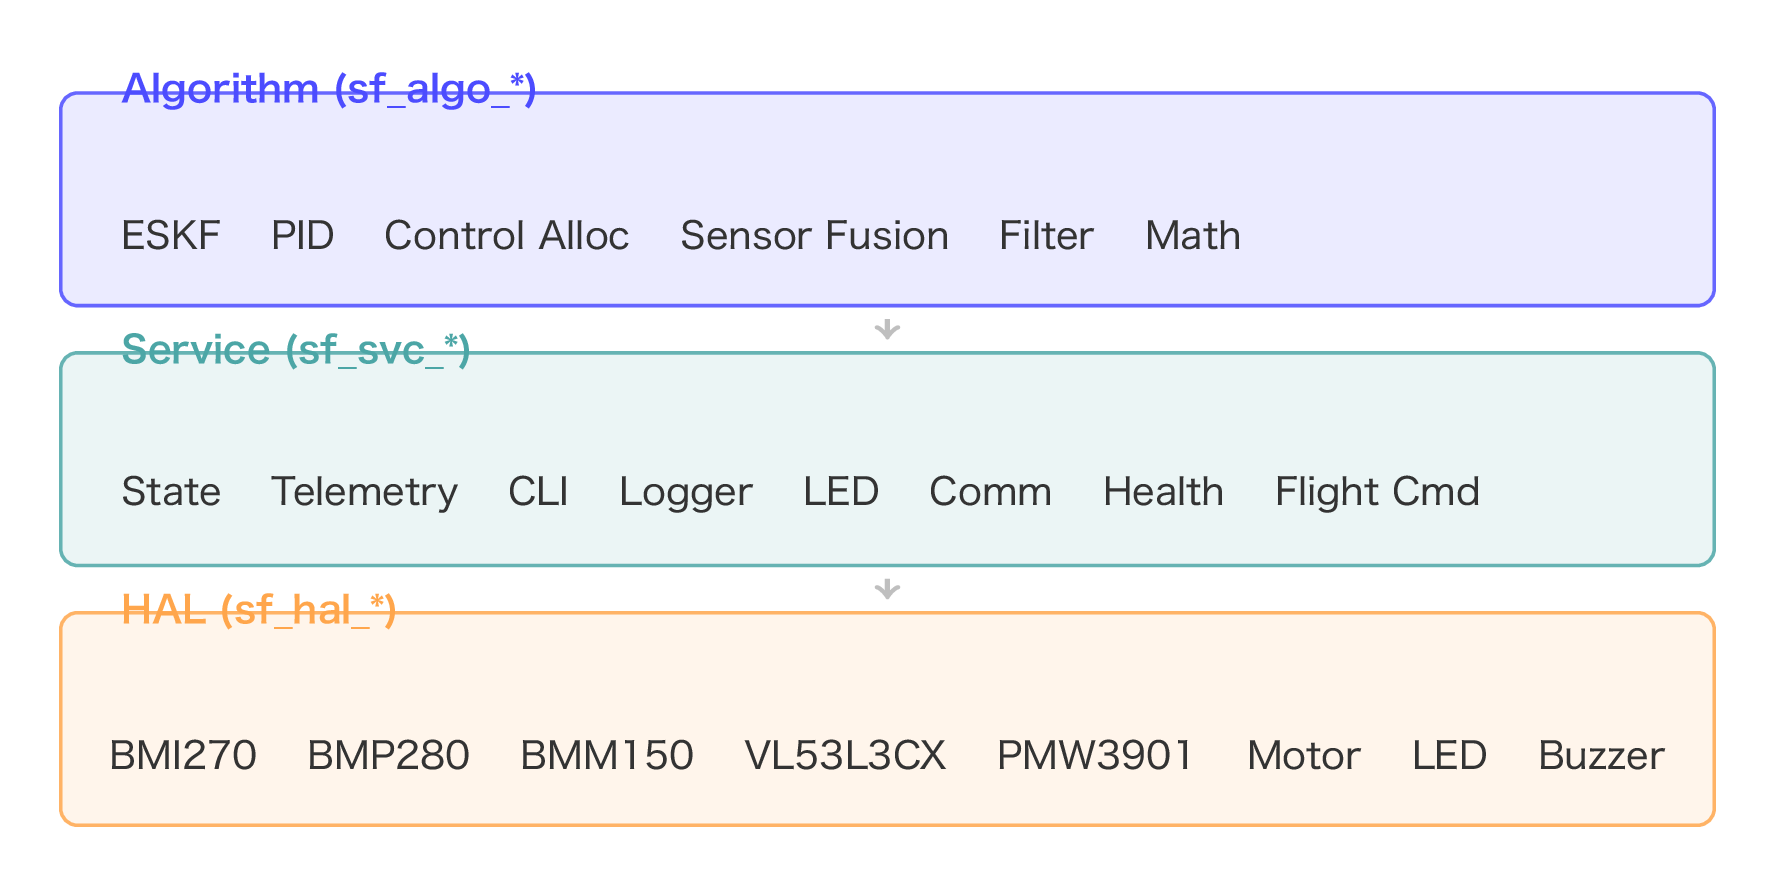
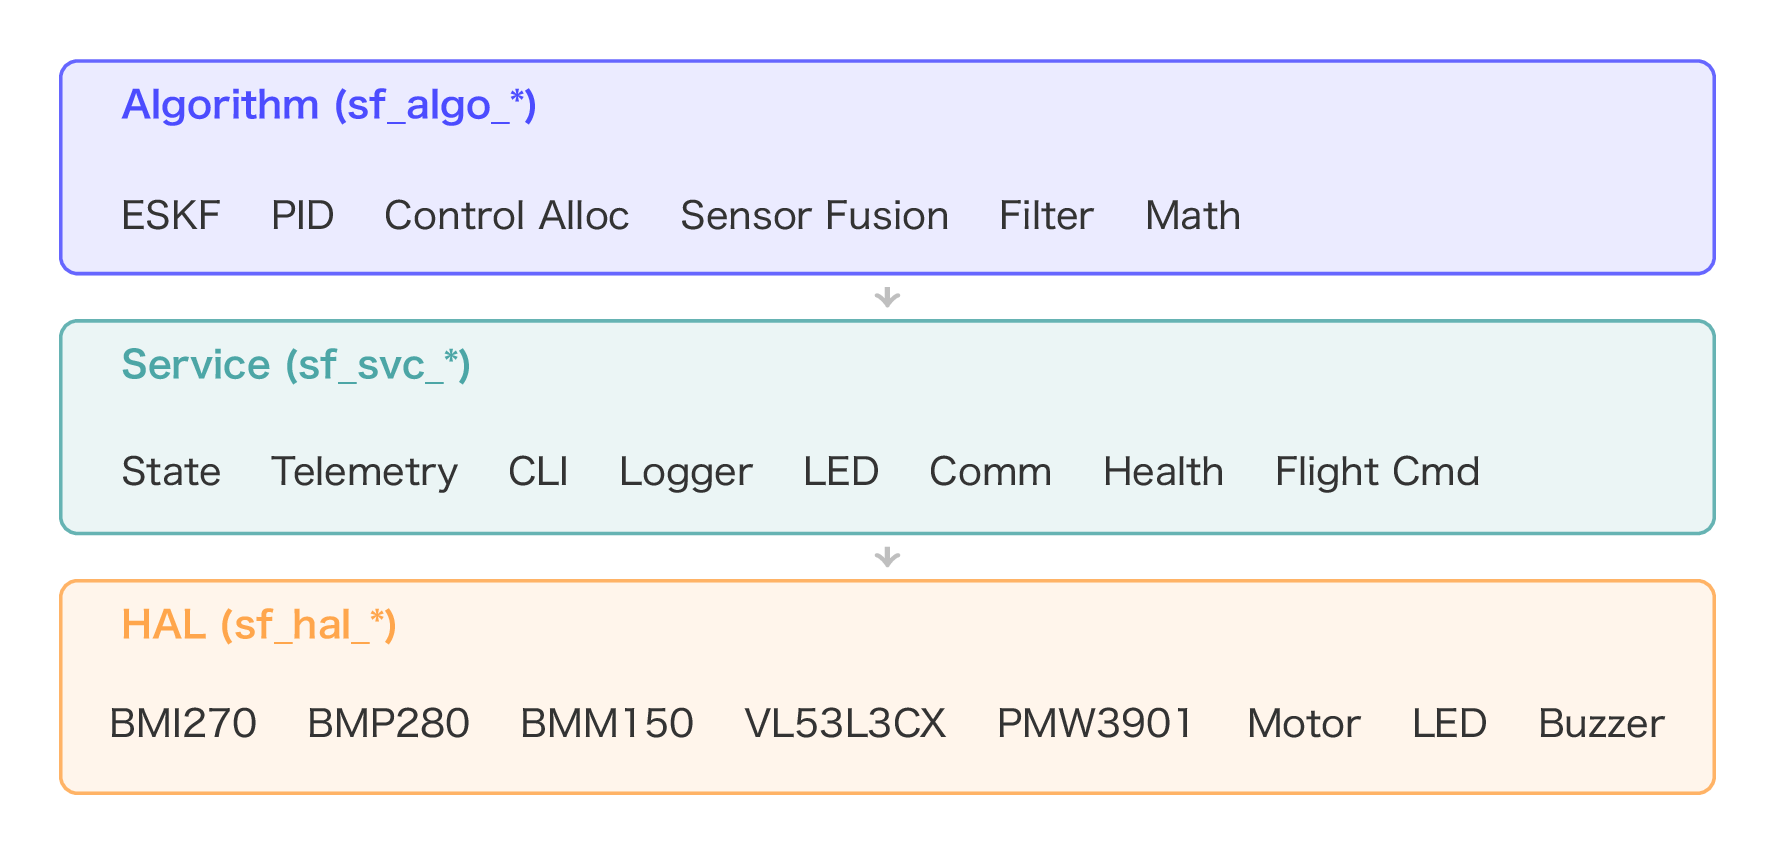
fix(slides): shift layer labels down to prevent border overlap
3層アーキテクチャ図のラベルを yshift=-4mm で下方に移動し、
ディセンダ（g, _ の下部）が上辺枠線にかかる問題を解消。

Next steps:
- プレゼン内容の最終レビュー

diff --git a/docs/assets/tikz/fw_architecture.tex b/docs/assets/tikz/fw_architecture.tex
@@ -20,17 +20,17 @@
 
 % Algorithm layer
 \node[layer=blue] (algo) at (0, 0) {};
-\node[label=blue, anchor=west] at ([xshift=4mm]algo.north west) {Algorithm (sf\_algo\_*)};
-\node[item, anchor=west] at ([xshift=4mm, yshift=-3mm]algo.west) {ESKF \quad PID \quad Control Alloc \quad Sensor Fusion \quad Filter \quad Math};
+\node[label=blue, anchor=west] at ([xshift=4mm, yshift=-4mm]algo.north west) {Algorithm (sf\_algo\_*)};
+\node[item, anchor=west] at ([xshift=4mm, yshift=-4mm]algo.west) {ESKF \quad PID \quad Control Alloc \quad Sensor Fusion \quad Filter \quad Math};
 
 % Service layer
 \node[layer=teal] (svc) at (0, -2.2) {};
-\node[label=teal, anchor=west] at ([xshift=4mm]svc.north west) {Service (sf\_svc\_*)};
-\node[item, anchor=west] at ([xshift=4mm, yshift=-3mm]svc.west) {State \quad Telemetry \quad CLI \quad Logger \quad LED \quad Comm \quad Health \quad Flight Cmd};
+\node[label=teal, anchor=west] at ([xshift=4mm, yshift=-4mm]svc.north west) {Service (sf\_svc\_*)};
+\node[item, anchor=west] at ([xshift=4mm, yshift=-4mm]svc.west) {State \quad Telemetry \quad CLI \quad Logger \quad LED \quad Comm \quad Health \quad Flight Cmd};
 
 % HAL layer
 \node[layer=orange] (hal) at (0, -4.4) {};
-\node[label=orange, anchor=west] at ([xshift=4mm]hal.north west) {HAL (sf\_hal\_*)};
+\node[label=orange, anchor=west] at ([xshift=4mm, yshift=-4mm]hal.north west) {HAL (sf\_hal\_*)};
 \node[item, anchor=center] at (0, -4.4 - 0.3) {BMI270 \quad BMP280 \quad BMM150 \quad VL53L3CX \quad PMW3901 \quad Motor \quad LED \quad Buzzer};
 
 % (arrows drawn below with better visibility)
